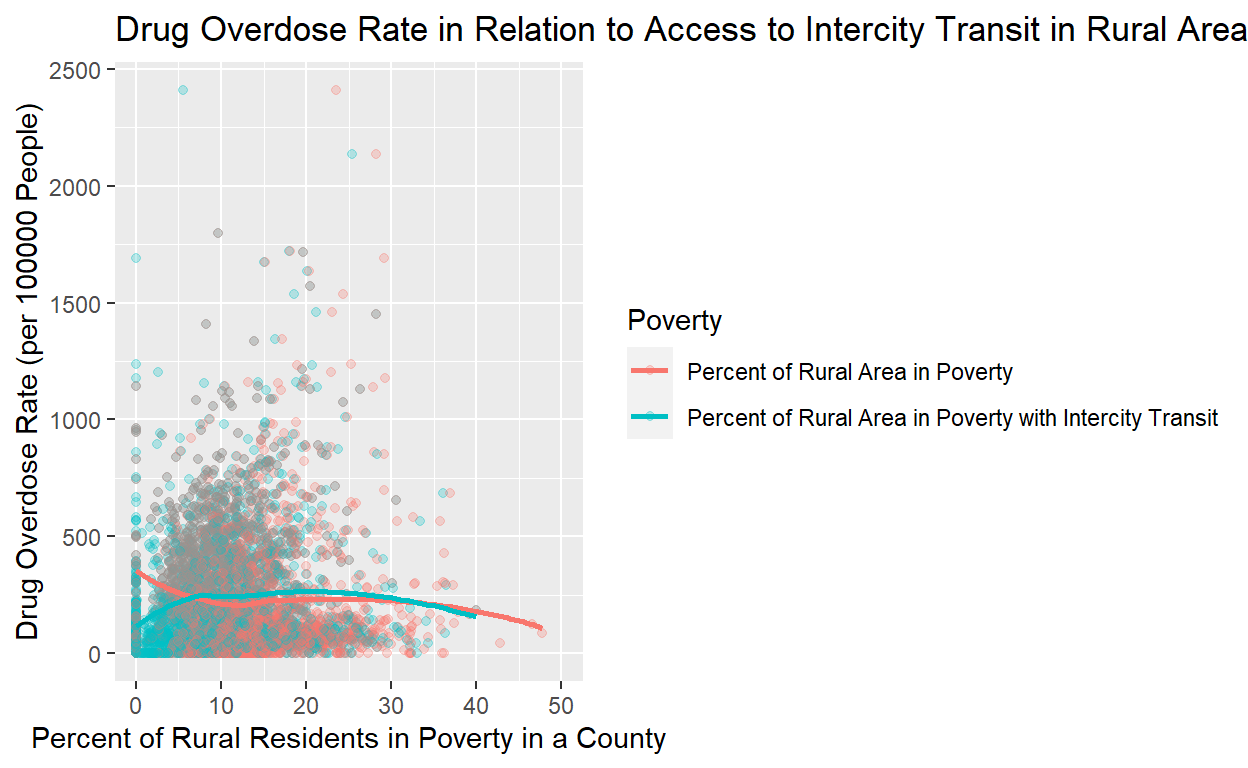
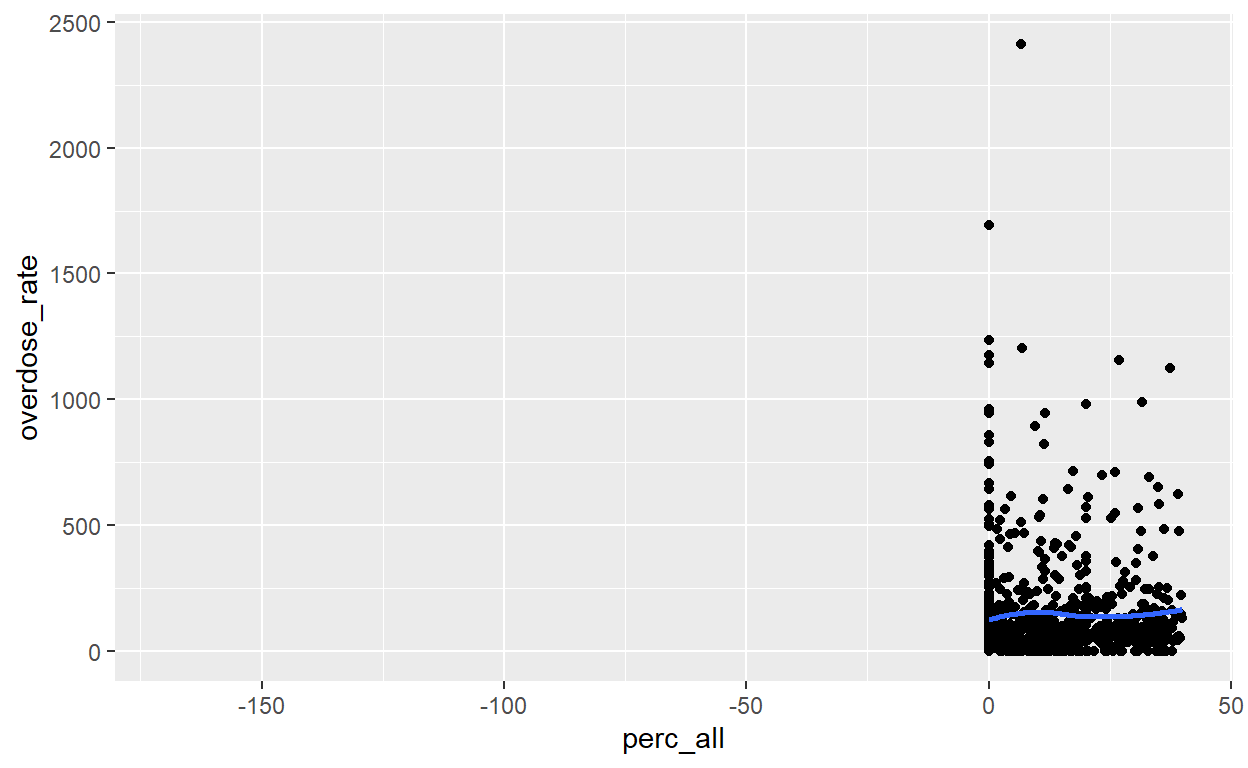
.

diff --git a/index.html b/index.html
@@ -115,7 +115,7 @@ code span.wa { color: #5e5e5e; font-style: italic; } /* Warning */
   <!--/radix_placeholder_rmarkdown_metadata-->
   
   <script type="text/json" id="radix-resource-manifest">
-  {"type":"character","attributes":{},"value":["Data/Access_to_Intercity_Air__Bus__and_Rail_Transportation_in_Rural_Areas.csv","Data/Data.Rproj","Data/VSRR_Provisional_County-Level_Drug_Overdose_Death_Counts.csv","index_files/anchor-4.2.2/anchor.min.js","index_files/bowser-1.9.3/bowser.min.js","index_files/distill-2.2.21/template.v2.js","index_files/figure-html5/unnamed-chunk-5-1.png","index_files/figure-html5/unnamed-chunk-5-2.png","index_files/figure-html5/unnamed-chunk-5-3.png","index_files/figure-html5/unnamed-chunk-5-4.png","index_files/figure-html5/unnamed-chunk-6-1.png","index_files/figure-html5/unnamed-chunk-6-2.png","index_files/header-attrs-2.17/header-attrs.js","index_files/header-attrs-2.24/header-attrs.js","index_files/jquery-3.6.0/jquery-3.6.0.js","index_files/jquery-3.6.0/jquery-3.6.0.min.js","index_files/jquery-3.6.0/jquery-3.6.0.min.map","index_files/popper-2.6.0/popper.min.js","index_files/tippy-6.2.7/tippy-bundle.umd.min.js","index_files/tippy-6.2.7/tippy-light-border.css","index_files/tippy-6.2.7/tippy.css","index_files/tippy-6.2.7/tippy.umd.min.js","index_files/webcomponents-2.0.0/webcomponents.js"]}
+  {"type":"character","attributes":{},"value":["Data/Access_to_Intercity_Air__Bus__and_Rail_Transportation_in_Rural_Areas.csv","Data/Data.Rproj","Data/VSRR_Provisional_County-Level_Drug_Overdose_Death_Counts.csv","index_files/anchor-4.2.2/anchor.min.js","index_files/bowser-1.9.3/bowser.min.js","index_files/distill-2.2.21/template.v2.js","index_files/figure-html5/unnamed-chunk-5-1.png","index_files/figure-html5/unnamed-chunk-5-2.png","index_files/figure-html5/unnamed-chunk-5-3.png","index_files/figure-html5/unnamed-chunk-5-4.png","index_files/figure-html5/unnamed-chunk-6-1.png","index_files/figure-html5/unnamed-chunk-6-2.png","index_files/figure-html5/unnamed-chunk-6-3.png","index_files/figure-html5/unnamed-chunk-6-4.png","index_files/figure-html5/unnamed-chunk-6-5.png","index_files/header-attrs-2.17/header-attrs.js","index_files/header-attrs-2.24/header-attrs.js","index_files/jquery-3.6.0/jquery-3.6.0.js","index_files/jquery-3.6.0/jquery-3.6.0.min.js","index_files/jquery-3.6.0/jquery-3.6.0.min.map","index_files/popper-2.6.0/popper.min.js","index_files/tippy-6.2.7/tippy-bundle.umd.min.js","index_files/tippy-6.2.7/tippy-light-border.css","index_files/tippy-6.2.7/tippy.css","index_files/tippy-6.2.7/tippy.umd.min.js","index_files/webcomponents-2.0.0/webcomponents.js"]}
   </script>
   <!--radix_placeholder_navigation_in_header-->
   <!--/radix_placeholder_navigation_in_header-->
@@ -1517,29 +1517,33 @@ code span.wa { color: #5e5e5e; font-style: italic; } /* Warning */
 </div>
 
 <div class="d-article">
-<h2 id="project-thoughtspart-i">Project thoughts/Part I</h2>
-<p>I am interested in exploring data in a few areas. One could potentially be the correspondence of minimum wage and voter preference or drug overdoses. I am not quite sure what necessarily I want to do quite yet.</p>
-<h2 id="research-ideapart-ii">Research Idea/Part II</h2>
-<p>How does access to transportation in rural counties in America influence drug overdose deaths? In America, there is an expanding gap between rural and suburban/urban Americans in economic, healthcare, and educational outcomes. While numerous different policy proposals beginning with those following the Financial Crisis of 2008 have been proposed, there have been mixed outcomes. Over the past year, there have been many debates in Congress on spending and what programs should be pared down. This year representatives (as often happens) continued to look at reducing funding to rural transportation subsidies that thousands of Americans rely upon not only for an easier connection to the country/world, but businesses and other outcomes rely upon peoples ability to access these transportation networks. Areas with worse access to reliable transportation, I believe, are more likely to have a high drug overdose rate. The explanatory variable is the number of people who use transportation (excluding personal vehicle) in a rural county, while the outcome variable is the number of drug overdoses per capita. If overdoses increase as transportation decreases, that would prove my hypothesis; if overdoses increase as transportation decreases, that would disprove my hypothesis.</p>
+<h2 id="introduction">Introduction</h2>
+<p>According to the United States Census, approximately 60 million people, or 19.3% of the American population, live in rural areas. While America’s rural counties have been successful in diversifying their economies and addressing certain socioeconomic disparities across the rural-urban divide, there are still significant disparities between urban and rural communities regarding economic, educational, and health outcomes. Rural America experienced a decrease in population, aging demographics, and decreasing life expectancy. Policy makes have long suggested innovative ways to address these disparities such as transportation subsidies like the Essential Air Service Program or Amtrak stops in rural communities. In this project, I will examine the impact of access to intercity transportation on the drug overdose rate and poverty.</p>
 <h2 id="part-3-data">Part 3 Data</h2>
 <p>GEOID: state + count identifier</p>
 <div class="layout-chunk" data-layout="l-body">
 <div class="sourceCode">
-<pre class="sourceCode r"><code class="sourceCode r"><span><span class='kw'><a href='https://rdrr.io/r/base/library.html'>library</a></span><span class='op'>(</span><span class='va'><a href='https://tidyverse.tidyverse.org'>tidyverse</a></span><span class='op'>)</span></span>
+<pre class="sourceCode r"><code class="sourceCode r"><span><span class='co'>#Load libraries</span></span>
+<span><span class='kw'><a href='https://rdrr.io/r/base/library.html'>library</a></span><span class='op'>(</span><span class='va'><a href='https://tidyverse.tidyverse.org'>tidyverse</a></span><span class='op'>)</span></span>
 <span><span class='kw'><a href='https://rdrr.io/r/base/library.html'>library</a></span><span class='op'>(</span><span class='va'><a href='https://dplyr.tidyverse.org'>dplyr</a></span><span class='op'>)</span></span>
+<span></span>
+<span><span class='co'>#Load transportation data set</span></span>
+<span><span class='co'>#Save to "access"</span></span>
+<span><span class='co'>#Rename variables for merging with drug overdose data set</span></span>
 <span><span class='va'>access</span> <span class='op'>&lt;-</span> <span class='fu'><a href='https://rdrr.io/r/utils/read.table.html'>read.csv</a></span><span class='op'>(</span><span class='st'>"Data/Access_to_Intercity_Air__Bus__and_Rail_Transportation_in_Rural_Areas.csv"</span><span class='op'>)</span><span class='op'>|&gt;</span></span>
 <span>  <span class='fu'><a href='https://dplyr.tidyverse.org/reference/rename.html'>rename</a></span><span class='op'>(</span>ST_ABBREV <span class='op'>=</span> <span class='va'>STATEPO</span>, COUNTYNAME <span class='op'>=</span> <span class='va'>NAME</span><span class='op'>)</span></span></code></pre>
 </div>
 </div>
 <div class="layout-chunk" data-layout="l-body">
 <div class="sourceCode">
-<pre class="sourceCode r"><code class="sourceCode r"><span><span class='va'>access</span><span class='op'>$</span><span class='va'>RURALPOP</span> <span class='op'>&lt;-</span> <span class='fu'><a href='https://rdrr.io/r/base/double.html'>as.double</a></span><span class='op'>(</span><span class='va'>access</span><span class='op'>$</span><span class='va'>RURALPOP</span><span class='op'>)</span></span></code></pre>
-</div>
-</div>
-<div class="layout-chunk" data-layout="l-body">
-<div class="sourceCode">
-<pre class="sourceCode r"><code class="sourceCode r"><span><span class='va'>access</span><span class='op'>$</span><span class='va'>GEOID</span> <span class='op'>&lt;-</span> <span class='fu'><a href='https://rdrr.io/r/base/integer.html'>as.integer</a></span><span class='op'>(</span><span class='va'>access</span><span class='op'>$</span><span class='va'>GEOID</span><span class='op'>)</span></span>
+<pre class="sourceCode r"><code class="sourceCode r"><span><span class='co'>#Change RURALPOP column to number in access</span></span>
+<span><span class='va'>access</span><span class='op'>$</span><span class='va'>RURALPOP</span> <span class='op'>&lt;-</span> <span class='fu'><a href='https://rdrr.io/r/base/double.html'>as.double</a></span><span class='op'>(</span><span class='va'>access</span><span class='op'>$</span><span class='va'>RURALPOP</span><span class='op'>)</span></span>
 <span></span>
+<span><span class='co'>#Change GEOID column to integer in access</span></span>
+<span><span class='va'>access</span><span class='op'>$</span><span class='va'>GEOID</span> <span class='op'>&lt;-</span> <span class='fu'><a href='https://rdrr.io/r/base/integer.html'>as.integer</a></span><span class='op'>(</span><span class='va'>access</span><span class='op'>$</span><span class='va'>GEOID</span><span class='op'>)</span></span>
+<span></span>
+<span><span class='co'>#Create access21 with data from 2021 only</span></span>
+<span><span class='co'>#Take mean of multiple entries from different projections/observations</span></span>
 <span><span class='va'>access21</span> <span class='op'>&lt;-</span> <span class='va'>access</span><span class='op'>|&gt;</span></span>
 <span>  <span class='fu'><a href='https://dplyr.tidyverse.org/reference/filter.html'>filter</a></span><span class='op'>(</span><span class='va'>YEAR</span>  <span class='op'>==</span> <span class='fl'>2021</span><span class='op'>)</span><span class='op'>|&gt;</span></span>
 <span>  <span class='fu'><a href='https://dplyr.tidyverse.org/reference/group_by.html'>group_by</a></span><span class='op'>(</span><span class='va'>GEOID</span><span class='op'>)</span><span class='op'>|&gt;</span></span>
@@ -1559,20 +1563,25 @@ code span.wa { color: #5e5e5e; font-style: italic; } /* Warning */
 </div>
 <div class="layout-chunk" data-layout="l-body">
 <div class="sourceCode">
-<pre class="sourceCode r"><code class="sourceCode r"><span><span class='va'>drug_overdoses</span> <span class='op'>&lt;-</span> <span class='fu'><a href='https://rdrr.io/r/utils/read.table.html'>read.csv</a></span><span class='op'>(</span><span class='st'>"Data/VSRR_Provisional_County-Level_Drug_Overdose_Death_Counts.csv"</span><span class='op'>)</span> <span class='op'>|&gt;</span></span>
+<pre class="sourceCode r"><code class="sourceCode r"><span><span class='co'>#Load drug overdoses data set and save to drug_overdoses</span></span>
+<span><span class='co'>#Rename column Provisional.Drug.Overdose.Deaths with easier name drug_deaths</span></span>
+<span><span class='va'>drug_overdoses</span> <span class='op'>&lt;-</span> <span class='fu'><a href='https://rdrr.io/r/utils/read.table.html'>read.csv</a></span><span class='op'>(</span><span class='st'>"Data/VSRR_Provisional_County-Level_Drug_Overdose_Death_Counts.csv"</span><span class='op'>)</span> <span class='op'>|&gt;</span></span>
 <span>  <span class='fu'><a href='https://dplyr.tidyverse.org/reference/rename.html'>rename</a></span><span class='op'>(</span>drug_deaths <span class='op'>=</span> <span class='va'>Provisional.Drug.Overdose.Deaths</span><span class='op'>)</span></span>
+<span></span>
+<span><span class='co'>#Rename FIPS to GEOID for merging data sets</span></span>
 <span><span class='va'>drug_overdoses</span> <span class='op'>&lt;-</span> <span class='va'>drug_overdoses</span> <span class='op'>|&gt;</span></span>
 <span>  <span class='fu'><a href='https://dplyr.tidyverse.org/reference/rename.html'>rename</a></span><span class='op'>(</span>GEOID <span class='op'>=</span> <span class='va'>FIPS</span><span class='op'>)</span></span>
 <span></span>
+<span><span class='co'>#Change drug_deaths column to number</span></span>
 <span><span class='va'>drug_overdoses</span><span class='op'>$</span><span class='va'>drug_deaths</span> <span class='op'>&lt;-</span> <span class='fu'><a href='https://rdrr.io/r/base/double.html'>as.double</a></span><span class='op'>(</span><span class='va'>drug_overdoses</span><span class='op'>$</span><span class='va'>drug_deaths</span><span class='op'>)</span></span>
 <span></span>
+<span><span class='co'>#Create new column drug_overdoses data set</span></span>
+<span><span class='co'>#drug_death 2 combines drug_death values &amp; assumes missing values</span></span>
+<span><span class='co'>#In places with 1-9 overdose deaths, assume 1 death</span></span>
 <span><span class='va'>drug_overdoses</span> <span class='op'>&lt;-</span> <span class='va'>drug_overdoses</span><span class='op'>|&gt;</span></span>
 <span>  <span class='fu'><a href='https://dplyr.tidyverse.org/reference/mutate.html'>mutate</a></span><span class='op'>(</span>drug_death2 <span class='op'>=</span> <span class='fu'><a href='https://dplyr.tidyverse.org/reference/if_else.html'>if_else</a></span><span class='op'>(</span><span class='va'>Footnote</span> <span class='op'>==</span> <span class='st'>"One or more data cells have counts between 1-9 and have been suppressed in accordance with NCHS confidentiality standards."</span>, <span class='fl'>1</span>, <span class='va'>drug_deaths</span><span class='op'>)</span><span class='op'>)</span></span>
 <span>  </span>
-<span><span class='va'>drug_overdoses</span><span class='op'>$</span><span class='va'>drug_deaths</span> <span class='op'>&lt;-</span> <span class='fu'><a href='https://rdrr.io/r/base/double.html'>as.double</a></span><span class='op'>(</span><span class='va'>drug_overdoses</span><span class='op'>$</span><span class='va'>drug_deaths</span><span class='op'>)</span></span>
-<span></span>
-<span></span>
-<span></span>
+<span><span class='co'>#Create overdoses_21 with sum of overdose deaths in 2021 by county</span></span>
 <span><span class='va'>overdoses_2021</span> <span class='op'>&lt;-</span> <span class='va'>drug_overdoses</span> <span class='op'>|&gt;</span></span>
 <span>  <span class='fu'><a href='https://dplyr.tidyverse.org/reference/filter.html'>filter</a></span><span class='op'>(</span><span class='va'>Year</span> <span class='op'>==</span> <span class='fl'>2021</span><span class='op'>)</span><span class='op'>|&gt;</span>  <span class='fu'><a href='https://dplyr.tidyverse.org/reference/group_by.html'>group_by</a></span><span class='op'>(</span><span class='va'>GEOID</span>, <span class='va'>COUNTYNAME</span>, <span class='va'>ST_ABBREV</span><span class='op'>)</span><span class='op'>|&gt;</span></span>
 <span>  <span class='fu'><a href='https://dplyr.tidyverse.org/reference/summarise.html'>summarise</a></span><span class='op'>(</span>deaths_2021 <span class='op'>=</span> <span class='fu'><a href='https://rdrr.io/r/base/sum.html'>sum</a></span><span class='op'>(</span><span class='va'>drug_death2</span><span class='op'>)</span><span class='op'>)</span></span></code></pre>
@@ -1580,52 +1589,71 @@ code span.wa { color: #5e5e5e; font-style: italic; } /* Warning */
 </div>
 <div class="layout-chunk" data-layout="l-body">
 <div class="sourceCode">
-<pre class="sourceCode r"><code class="sourceCode r"><span><span class='va'>combined</span> <span class='op'>&lt;-</span> <span class='va'>access21</span><span class='op'>|&gt;</span></span>
+<pre class="sourceCode r"><code class="sourceCode r"><span><span class='co'>#Join access_21 &amp; overdoses_2021 data sets by GEOID</span></span>
+<span><span class='co'>#Select columns to be included in new data set combined</span></span>
+<span><span class='va'>combined</span> <span class='op'>&lt;-</span> <span class='va'>access21</span><span class='op'>|&gt;</span></span>
 <span>  <span class='fu'><a href='https://dplyr.tidyverse.org/reference/mutate-joins.html'>left_join</a></span><span class='op'>(</span><span class='va'>overdoses_2021</span>, by <span class='op'>=</span> <span class='st'>"GEOID"</span><span class='op'>)</span><span class='op'>|&gt;</span></span>
-<span>  <span class='fu'><a href='https://dplyr.tidyverse.org/reference/select.html'>select</a></span><span class='op'>(</span><span class='va'>total_pop</span><span class='op'>:</span><span class='va'>perc_poverty</span>, <span class='va'>GEOID</span><span class='op'>:</span><span class='va'>deaths_2021</span><span class='op'>)</span></span>
-<span></span>
+<span>  <span class='fu'><a href='https://dplyr.tidyverse.org/reference/select.html'>select</a></span><span class='op'>(</span><span class='va'>total_pop</span><span class='op'>:</span><span class='va'>perc_poverty</span>, <span class='va'>GEOID</span><span class='op'>:</span><span class='va'>deaths_2021</span><span class='op'>)</span></span></code></pre>
+</div>
+</div>
+<div class="layout-chunk" data-layout="l-body">
+<div class="sourceCode">
+<pre class="sourceCode r"><code class="sourceCode r"><span><span class='co'>#Create new column with overdose rate per 100000 residents</span></span>
+<span><span class='co'>#Create new column with percent of population rural </span></span>
 <span><span class='va'>combined</span> <span class='op'>&lt;-</span> <span class='va'>combined</span> <span class='op'>|&gt;</span></span>
-<span>  <span class='fu'><a href='https://dplyr.tidyverse.org/reference/mutate.html'>mutate</a></span><span class='op'>(</span>overdose_rate <span class='op'>=</span> <span class='op'>(</span><span class='va'>deaths_2021</span><span class='op'>/</span><span class='va'>total_pop</span><span class='op'>)</span><span class='op'>*</span><span class='fl'>100000</span>, perc_pop_rural <span class='op'>=</span> <span class='op'>(</span><span class='va'>rural_pop</span><span class='op'>/</span><span class='va'>total_pop</span><span class='op'>)</span><span class='op'>*</span><span class='fl'>100</span><span class='op'>)</span></span>
-<span></span>
-<span><span class='va'>combined</span><span class='op'>|&gt;</span></span>
+<span>  <span class='fu'><a href='https://dplyr.tidyverse.org/reference/mutate.html'>mutate</a></span><span class='op'>(</span>overdose_rate <span class='op'>=</span> <span class='op'>(</span><span class='va'>deaths_2021</span><span class='op'>/</span><span class='va'>total_pop</span><span class='op'>)</span><span class='op'>*</span><span class='fl'>100000</span>, perc_pop_rural <span class='op'>=</span> <span class='op'>(</span><span class='va'>rural_pop</span><span class='op'>/</span><span class='va'>total_pop</span><span class='op'>)</span><span class='op'>*</span><span class='fl'>100</span><span class='op'>)</span></span></code></pre>
+</div>
+</div>
+<div class="layout-chunk" data-layout="l-body">
+<div class="sourceCode">
+<pre class="sourceCode r"><code class="sourceCode r"><span><span class='va'>combined</span><span class='op'>|&gt;</span></span>
 <span>  <span class='fu'><a href='https://dplyr.tidyverse.org/reference/filter.html'>filter</a></span><span class='op'>(</span><span class='va'>perc_all</span> <span class='op'>&lt;=</span> <span class='fl'>40</span><span class='op'>)</span><span class='op'>|&gt;</span></span>
 <span>  <span class='fu'><a href='https://ggplot2.tidyverse.org/reference/ggplot.html'>ggplot</a></span><span class='op'>(</span>mapping <span class='op'>=</span> <span class='fu'><a href='https://ggplot2.tidyverse.org/reference/aes.html'>aes</a></span><span class='op'>(</span>x <span class='op'>=</span> <span class='va'>perc_all</span>, y <span class='op'>=</span> <span class='va'>overdose_rate</span><span class='op'>)</span><span class='op'>)</span> <span class='op'>+</span> <span class='fu'><a href='https://ggplot2.tidyverse.org/reference/geom_point.html'>geom_point</a></span><span class='op'>(</span><span class='op'>)</span> <span class='op'>+</span> <span class='fu'><a href='https://ggplot2.tidyverse.org/reference/geom_smooth.html'>geom_smooth</a></span><span class='op'>(</span>method <span class='op'>=</span> <span class='st'>"loess"</span>, se <span class='op'>=</span> <span class='cn'>FALSE</span><span class='op'>)</span></span></code></pre>
 </div>
-<img src="index_files/figure-html5/unnamed-chunk-5-1.png" width="624" />
-<div class="sourceCode">
-<pre class="sourceCode r"><code class="sourceCode r"><span><span class='va'>od</span> <span class='op'>&lt;-</span> <span class='fu'><a href='https://ggplot2.tidyverse.org/reference/ggplot.html'>ggplot</a></span><span class='op'>(</span>data <span class='op'>=</span> <span class='va'>combined</span>, mapping <span class='op'>=</span> <span class='fu'><a href='https://ggplot2.tidyverse.org/reference/aes.html'>aes</a></span><span class='op'>(</span>x <span class='op'>=</span> <span class='va'>perc_pop_rural</span>, y <span class='op'>=</span> <span class='va'>overdose_rate</span><span class='op'>)</span><span class='op'>)</span> <span class='op'>+</span> <span class='fu'><a href='https://ggplot2.tidyverse.org/reference/geom_point.html'>geom_point</a></span><span class='op'>(</span>alpha <span class='op'>=</span> <span class='fl'>0.25</span><span class='op'>)</span> <span class='op'>+</span> <span class='fu'><a href='https://ggplot2.tidyverse.org/reference/geom_smooth.html'>geom_smooth</a></span><span class='op'>(</span>method <span class='op'>=</span> <span class='st'>"loess"</span>, se <span class='op'>=</span> <span class='cn'>FALSE</span><span class='op'>)</span> <span class='op'>+</span> <span class='fu'><a href='https://ggplot2.tidyverse.org/reference/labs.html'>labs</a></span><span class='op'>(</span>x <span class='op'>=</span> <span class='st'>"Percent of Rural Population"</span>, y <span class='op'>=</span> <span class='st'>"Overdose Rate"</span>, title <span class='op'>=</span> <span class='st'>"Percentage of a County Rural and Overdose Rate"</span><span class='op'>)</span></span>
-<span></span>
-<span><span class='fu'><a href='https://ggplot2.tidyverse.org/reference/ggplot.html'>ggplot</a></span><span class='op'>(</span>data <span class='op'>=</span> <span class='va'>combined</span>, mapping <span class='op'>=</span> <span class='fu'><a href='https://ggplot2.tidyverse.org/reference/aes.html'>aes</a></span><span class='op'>(</span>x <span class='op'>=</span> <span class='va'>perc_all</span>, y <span class='op'>=</span> <span class='va'>overdose_rate</span><span class='op'>)</span><span class='op'>)</span><span class='op'>+</span> <span class='fu'><a href='https://ggplot2.tidyverse.org/reference/geom_point.html'>geom_point</a></span><span class='op'>(</span><span class='op'>)</span> <span class='op'>+</span> <span class='fu'><a href='https://ggplot2.tidyverse.org/reference/geom_smooth.html'>geom_smooth</a></span><span class='op'>(</span>method <span class='op'>=</span> <span class='st'>"loess"</span>, se <span class='op'>=</span> <span class='cn'>FALSE</span><span class='op'>)</span> <span class='op'>+</span> <span class='fu'><a href='https://ggplot2.tidyverse.org/reference/scale_continuous.html'>scale_x_continuous</a></span><span class='op'>(</span>limits <span class='op'>=</span> <span class='fu'><a href='https://rdrr.io/r/base/c.html'>c</a></span><span class='op'>(</span><span class='fl'>0</span>, <span class='fl'>100</span><span class='op'>)</span><span class='op'>)</span></span></code></pre>
-</div>
-<img src="index_files/figure-html5/unnamed-chunk-5-2.png" width="624" />
+<img src="index_files/figure-html5/unnamed-chunk-6-1.png" width="624" />
 <div class="sourceCode">
 <pre class="sourceCode r"><code class="sourceCode r"><span><span class='va'>combined_long</span> <span class='op'>&lt;-</span> <span class='va'>combined</span><span class='op'>|&gt;</span></span>
 <span>  <span class='fu'><a href='https://tidyr.tidyverse.org/reference/pivot_longer.html'>pivot_longer</a></span><span class='op'>(</span>cols <span class='op'>=</span> <span class='fu'><a href='https://rdrr.io/r/base/c.html'>c</a></span><span class='op'>(</span><span class='va'>perc_poverty_intercity</span>, <span class='va'>perc_poverty</span><span class='op'>)</span>, names_to <span class='op'>=</span> <span class='st'>"Poverty"</span>, values_to <span class='op'>=</span> <span class='st'>"value"</span><span class='op'>)</span></span>
 <span></span>
-<span><span class='va'>Poverty_drugs</span> <span class='op'>&lt;-</span> <span class='fu'><a href='https://ggplot2.tidyverse.org/reference/ggplot.html'>ggplot</a></span><span class='op'>(</span><span class='va'>combined_long</span>, <span class='fu'><a href='https://ggplot2.tidyverse.org/reference/aes.html'>aes</a></span><span class='op'>(</span>x <span class='op'>=</span> <span class='va'>value</span>, color <span class='op'>=</span> <span class='va'>Poverty</span>, y <span class='op'>=</span> <span class='va'>overdose_rate</span><span class='op'>)</span><span class='op'>)</span><span class='op'>+</span> <span class='fu'><a href='https://ggplot2.tidyverse.org/reference/geom_point.html'>geom_point</a></span><span class='op'>(</span>alpha <span class='op'>=</span> <span class='fl'>0.25</span><span class='op'>)</span> <span class='op'>+</span> <span class='fu'><a href='https://ggplot2.tidyverse.org/reference/geom_smooth.html'>geom_smooth</a></span><span class='op'>(</span>method <span class='op'>=</span> <span class='st'>"loess"</span>, se <span class='op'>=</span> <span class='cn'>FALSE</span><span class='op'>)</span>  <span class='op'>+</span> <span class='fu'><a href='https://ggplot2.tidyverse.org/reference/scale_continuous.html'>scale_x_continuous</a></span><span class='op'>(</span>limits <span class='op'>=</span> <span class='fu'><a href='https://rdrr.io/r/base/c.html'>c</a></span><span class='op'>(</span><span class='fl'>0</span>, <span class='fl'>50</span><span class='op'>)</span><span class='op'>)</span> <span class='op'>+</span> <span class='fu'><a href='https://ggplot2.tidyverse.org/reference/labs.html'>labs</a></span><span class='op'>(</span>title <span class='op'>=</span> <span class='st'>"Drug Overdose Rate in Relation to Access to Intercity Transit in Rural Areas"</span>, x <span class='op'>=</span> <span class='st'>"Percent of Rural Residents in Poverty in a County"</span>, y <span class='op'>=</span> <span class='st'>"Drug Overdose Rate (per 100000 People)"</span><span class='op'>)</span> <span class='op'>+</span> <span class='fu'><a href='https://ggplot2.tidyverse.org/reference/scale_colour_discrete.html'>scale_color_discrete</a></span><span class='op'>(</span>labels <span class='op'>=</span> <span class='fu'><a href='https://rdrr.io/r/base/c.html'>c</a></span><span class='op'>(</span><span class='st'>"Percent of Rural Area in Poverty"</span>, <span class='st'>"Percent of Rural Area in Poverty with Intercity Transit"</span><span class='op'>)</span><span class='op'>)</span></span>
+<span><span class='va'>od</span> <span class='op'>&lt;-</span> <span class='fu'><a href='https://ggplot2.tidyverse.org/reference/ggplot.html'>ggplot</a></span><span class='op'>(</span>data <span class='op'>=</span> <span class='va'>combined</span>, mapping <span class='op'>=</span> <span class='fu'><a href='https://ggplot2.tidyverse.org/reference/aes.html'>aes</a></span><span class='op'>(</span>x <span class='op'>=</span> <span class='va'>perc_pop_rural</span>, y <span class='op'>=</span> <span class='va'>overdose_rate</span><span class='op'>)</span><span class='op'>)</span> <span class='op'>+</span> <span class='fu'><a href='https://ggplot2.tidyverse.org/reference/geom_point.html'>geom_point</a></span><span class='op'>(</span>alpha <span class='op'>=</span> <span class='fl'>0.25</span><span class='op'>)</span> <span class='op'>+</span> <span class='fu'><a href='https://ggplot2.tidyverse.org/reference/geom_smooth.html'>geom_smooth</a></span><span class='op'>(</span>method <span class='op'>=</span> <span class='st'>"loess"</span>, se <span class='op'>=</span> <span class='cn'>FALSE</span><span class='op'>)</span> <span class='op'>+</span> <span class='fu'><a href='https://ggplot2.tidyverse.org/reference/labs.html'>labs</a></span><span class='op'>(</span>x <span class='op'>=</span> <span class='st'>"Percent of Rural Population"</span>, y <span class='op'>=</span> <span class='st'>"Overdose Rate"</span>, title <span class='op'>=</span> <span class='st'>"Percentage of a County Rural and Overdose Rate"</span><span class='op'>)</span></span>
 <span></span>
-<span><span class='va'>Poverty_drugs</span></span></code></pre>
+<span><span class='fu'><a href='https://ggplot2.tidyverse.org/reference/ggplot.html'>ggplot</a></span><span class='op'>(</span>data <span class='op'>=</span> <span class='va'>combined</span>, mapping <span class='op'>=</span> <span class='fu'><a href='https://ggplot2.tidyverse.org/reference/aes.html'>aes</a></span><span class='op'>(</span>x <span class='op'>=</span> <span class='va'>perc_all</span>, y <span class='op'>=</span> <span class='va'>overdose_rate</span><span class='op'>)</span><span class='op'>)</span><span class='op'>+</span> <span class='fu'><a href='https://ggplot2.tidyverse.org/reference/geom_point.html'>geom_point</a></span><span class='op'>(</span><span class='op'>)</span> <span class='op'>+</span> <span class='fu'><a href='https://ggplot2.tidyverse.org/reference/geom_smooth.html'>geom_smooth</a></span><span class='op'>(</span>method <span class='op'>=</span> <span class='st'>"loess"</span>, se <span class='op'>=</span> <span class='cn'>FALSE</span><span class='op'>)</span> <span class='op'>+</span> <span class='fu'><a href='https://ggplot2.tidyverse.org/reference/scale_continuous.html'>scale_x_continuous</a></span><span class='op'>(</span>limits <span class='op'>=</span> <span class='fu'><a href='https://rdrr.io/r/base/c.html'>c</a></span><span class='op'>(</span><span class='fl'>0</span>, <span class='fl'>100</span><span class='op'>)</span><span class='op'>)</span></span></code></pre>
 </div>
-<img src="index_files/figure-html5/unnamed-chunk-5-3.png" width="624" />
+<img src="index_files/figure-html5/unnamed-chunk-6-2.png" width="624" />
+<div class="sourceCode">
+<pre class="sourceCode r"><code class="sourceCode r"><span><span class='va'>transport_poverty</span> <span class='op'>&lt;-</span> <span class='fu'><a href='https://ggplot2.tidyverse.org/reference/ggplot.html'>ggplot</a></span><span class='op'>(</span>data <span class='op'>=</span> <span class='va'>combined_long</span>, mapping <span class='op'>=</span> <span class='fu'><a href='https://ggplot2.tidyverse.org/reference/aes.html'>aes</a></span><span class='op'>(</span>x <span class='op'>=</span> <span class='va'>perc_all</span>, y <span class='op'>=</span> <span class='va'>value</span>, color <span class='op'>=</span><span class='va'>Poverty</span><span class='op'>)</span><span class='op'>)</span><span class='op'>+</span> <span class='fu'><a href='https://ggplot2.tidyverse.org/reference/geom_point.html'>geom_point</a></span><span class='op'>(</span>alpha <span class='op'>=</span> <span class='fl'>0.25</span><span class='op'>)</span> <span class='op'>+</span> <span class='fu'><a href='https://ggplot2.tidyverse.org/reference/geom_smooth.html'>geom_smooth</a></span><span class='op'>(</span>method <span class='op'>=</span> <span class='st'>"loess"</span>, se <span class='op'>=</span> <span class='cn'>FALSE</span><span class='op'>)</span> <span class='op'>+</span> <span class='fu'><a href='https://ggplot2.tidyverse.org/reference/scale_continuous.html'>scale_x_continuous</a></span><span class='op'>(</span>limits <span class='op'>=</span> <span class='fu'><a href='https://rdrr.io/r/base/c.html'>c</a></span><span class='op'>(</span><span class='fl'>0</span>, <span class='fl'>100</span><span class='op'>)</span><span class='op'>)</span> <span class='op'>+</span> <span class='fu'><a href='https://ggplot2.tidyverse.org/reference/scale_continuous.html'>scale_y_continuous</a></span><span class='op'>(</span>limits <span class='op'>=</span> <span class='fu'><a href='https://rdrr.io/r/base/c.html'>c</a></span><span class='op'>(</span><span class='fl'>0</span>, <span class='fl'>50</span><span class='op'>)</span><span class='op'>)</span> <span class='op'>+</span> <span class='fu'><a href='https://ggplot2.tidyverse.org/reference/labs.html'>labs</a></span><span class='op'>(</span>title <span class='op'>=</span> <span class='st'>"Rural Poverty in Relation to Access to Intercity Transit in Rural Areas"</span>, x <span class='op'>=</span> <span class='st'>"Percent of Rural Population with Access to Intercity Transit"</span>, y <span class='op'>=</span> <span class='st'>"Percent of Rural Population in Poverty"</span><span class='op'>)</span> <span class='op'>+</span> <span class='fu'><a href='https://ggplot2.tidyverse.org/reference/scale_colour_discrete.html'>scale_color_discrete</a></span><span class='op'>(</span>labels <span class='op'>=</span> <span class='fu'><a href='https://rdrr.io/r/base/c.html'>c</a></span><span class='op'>(</span><span class='st'>"Percent of Rural Area in Poverty"</span>, <span class='st'>"Percent of Rural Area in Poverty with Intercity Transit"</span><span class='op'>)</span><span class='op'>)</span></span>
+<span></span>
+<span></span>
+<span></span>
+<span></span>
+<span><span class='va'>Poverty_drugs</span> <span class='op'>&lt;-</span> <span class='fu'><a href='https://ggplot2.tidyverse.org/reference/ggplot.html'>ggplot</a></span><span class='op'>(</span><span class='va'>combined_long</span>, <span class='fu'><a href='https://ggplot2.tidyverse.org/reference/aes.html'>aes</a></span><span class='op'>(</span>x <span class='op'>=</span> <span class='va'>value</span>, color <span class='op'>=</span> <span class='va'>Poverty</span>, y <span class='op'>=</span> <span class='va'>overdose_rate</span><span class='op'>)</span><span class='op'>)</span><span class='op'>+</span> <span class='fu'><a href='https://ggplot2.tidyverse.org/reference/geom_point.html'>geom_point</a></span><span class='op'>(</span>alpha <span class='op'>=</span> <span class='fl'>0.1</span><span class='op'>)</span> <span class='op'>+</span> <span class='fu'><a href='https://ggplot2.tidyverse.org/reference/geom_smooth.html'>geom_smooth</a></span><span class='op'>(</span>method <span class='op'>=</span> <span class='st'>"loess"</span>, se <span class='op'>=</span> <span class='cn'>FALSE</span><span class='op'>)</span>  <span class='op'>+</span> <span class='fu'><a href='https://ggplot2.tidyverse.org/reference/scale_continuous.html'>scale_x_continuous</a></span><span class='op'>(</span>limits <span class='op'>=</span> <span class='fu'><a href='https://rdrr.io/r/base/c.html'>c</a></span><span class='op'>(</span><span class='fl'>0</span>, <span class='fl'>50</span><span class='op'>)</span><span class='op'>)</span> <span class='op'>+</span> <span class='fu'><a href='https://ggplot2.tidyverse.org/reference/labs.html'>labs</a></span><span class='op'>(</span>title <span class='op'>=</span> <span class='st'>"Drug Overdose Rate in Relation to Access to Intercity Transit in Rural Areas"</span>, x <span class='op'>=</span> <span class='st'>"Percent of Rural Residents in Poverty in a County"</span>, y <span class='op'>=</span> <span class='st'>"Drug Overdose Rate (per 100000 People)"</span><span class='op'>)</span> <span class='op'>+</span> <span class='fu'><a href='https://ggplot2.tidyverse.org/reference/scale_colour_discrete.html'>scale_color_discrete</a></span><span class='op'>(</span>labels <span class='op'>=</span> <span class='fu'><a href='https://rdrr.io/r/base/c.html'>c</a></span><span class='op'>(</span><span class='st'>"Percent of Rural Area in Poverty"</span>, <span class='st'>"Percent of Rural Area in Poverty with Intercity Transit"</span><span class='op'>)</span><span class='op'>)</span></span>
+<span></span>
+<span><span class='va'>fit</span> <span class='op'>&lt;-</span> <span class='fu'><a href='https://rdrr.io/r/stats/lm.html'>lm</a></span><span class='op'>(</span><span class='va'>perc_all</span> <span class='op'>~</span> <span class='va'>overdose_rate</span> <span class='op'>+</span> <span class='va'>perc_poverty</span>, data <span class='op'>=</span> <span class='va'>combined</span><span class='op'>)</span></span>
+<span></span>
+<span><span class='va'>transport_poverty</span></span></code></pre>
+</div>
+<img src="index_files/figure-html5/unnamed-chunk-6-3.png" width="624" />
+<div class="sourceCode">
+<pre class="sourceCode r"><code class="sourceCode r"><span><span class='va'>Poverty_drugs</span></span></code></pre>
+</div>
+<img src="index_files/figure-html5/unnamed-chunk-6-4.png" width="624" />
 <div class="sourceCode">
 <pre class="sourceCode r"><code class="sourceCode r"><span><span class='va'>od</span></span></code></pre>
 </div>
-<p><img src="index_files/figure-html5/unnamed-chunk-5-4.png" width="624" /></p>
-</div>
-<div class="layout-chunk" data-layout="l-body">
+<img src="index_files/figure-html5/unnamed-chunk-6-5.png" width="624" />
 <div class="sourceCode">
-<pre class="sourceCode r"><code class="sourceCode r"><span><span class='va'>Poverty_drugs</span> <span class='op'>&lt;-</span> <span class='fu'><a href='https://ggplot2.tidyverse.org/reference/ggplot.html'>ggplot</a></span><span class='op'>(</span><span class='va'>combined_long</span>, <span class='fu'><a href='https://ggplot2.tidyverse.org/reference/aes.html'>aes</a></span><span class='op'>(</span>x <span class='op'>=</span> <span class='va'>value</span>, color <span class='op'>=</span> <span class='va'>Poverty</span>, y <span class='op'>=</span> <span class='va'>overdose_rate</span><span class='op'>)</span><span class='op'>)</span><span class='op'>+</span> <span class='fu'><a href='https://ggplot2.tidyverse.org/reference/geom_point.html'>geom_point</a></span><span class='op'>(</span>alpha <span class='op'>=</span> <span class='fl'>0.25</span><span class='op'>)</span> <span class='op'>+</span> <span class='fu'><a href='https://ggplot2.tidyverse.org/reference/geom_smooth.html'>geom_smooth</a></span><span class='op'>(</span>method <span class='op'>=</span> <span class='st'>"loess"</span>, se <span class='op'>=</span> <span class='cn'>FALSE</span><span class='op'>)</span>  <span class='op'>+</span> <span class='fu'><a href='https://ggplot2.tidyverse.org/reference/scale_continuous.html'>scale_x_continuous</a></span><span class='op'>(</span>limits <span class='op'>=</span> <span class='fu'><a href='https://rdrr.io/r/base/c.html'>c</a></span><span class='op'>(</span><span class='fl'>0</span>, <span class='fl'>50</span><span class='op'>)</span><span class='op'>)</span> <span class='op'>+</span> <span class='fu'><a href='https://ggplot2.tidyverse.org/reference/labs.html'>labs</a></span><span class='op'>(</span>title <span class='op'>=</span> <span class='st'>"Drug Overdose Rate in Relation to Access to Intercity Transit in Rural Areas"</span>, x <span class='op'>=</span> <span class='st'>"Percent of Rural Residents in Poverty in a County"</span>, y <span class='op'>=</span> <span class='st'>"Drug Overdose Rate (per 100000 People)"</span><span class='op'>)</span> <span class='op'>+</span> <span class='fu'><a href='https://ggplot2.tidyverse.org/reference/scale_colour_discrete.html'>scale_color_discrete</a></span><span class='op'>(</span>labels <span class='op'>=</span> <span class='fu'><a href='https://rdrr.io/r/base/c.html'>c</a></span><span class='op'>(</span><span class='st'>"Percent of Rural Area in Poverty"</span>, <span class='st'>"Percent of Rural Area in Poverty with Intercity Transit"</span><span class='op'>)</span><span class='op'>)</span></span>
-<span></span>
-<span><span class='va'>Poverty_drugs</span></span></code></pre>
+<pre class="sourceCode r"><code class="sourceCode r"><span><span class='va'>fit</span></span></code></pre>
 </div>
-<img src="index_files/figure-html5/unnamed-chunk-6-1.png" width="624" />
-<div class="sourceCode">
-<pre class="sourceCode r"><code class="sourceCode r"><span><span class='va'>od</span></span></code></pre>
-</div>
-<p><img src="index_files/figure-html5/unnamed-chunk-6-2.png" width="624" /></p>
+<pre><code>
+Call:
+lm(formula = perc_all ~ overdose_rate + perc_poverty, data = combined)
+
+Coefficients:
+  (Intercept)  overdose_rate   perc_poverty  
+     74.19831        0.03907       -1.33041  </code></pre>
 </div>
 <p>The overdose rate appears to be higher in urban locations in 2021, and access to intercity transport actually appears to raise the overdose rate in rural counties. My data is somewhat flawed, however, as federal privacy acts prohibit the disclosure of the exact amount of deaths in a county from overdoses in a month if between 1 and 9 deaths occurred. For these values, I assumed there was one death (as it was the minimum) which I believe effects counties with smaller populations actually under reporting the number of deaths and leading to an inaccurate OD rate for these counties. Poverty and access to intercity transport seemed to be interesting to observe, however. In counties where the rural population had between 0 and 5 percent unemployment, there was a lower OD rate in counties with access to intercity transit.</p>
-<div class="sourceCode" id="cb1"><pre class="sourceCode r distill-force-highlighting-css"><code class="sourceCode r"></code></pre></div>
+<div class="sourceCode" id="cb2"><pre class="sourceCode r distill-force-highlighting-css"><code class="sourceCode r"></code></pre></div>
 <!--radix_placeholder_article_footer-->
 <!--/radix_placeholder_article_footer-->
 </div>
